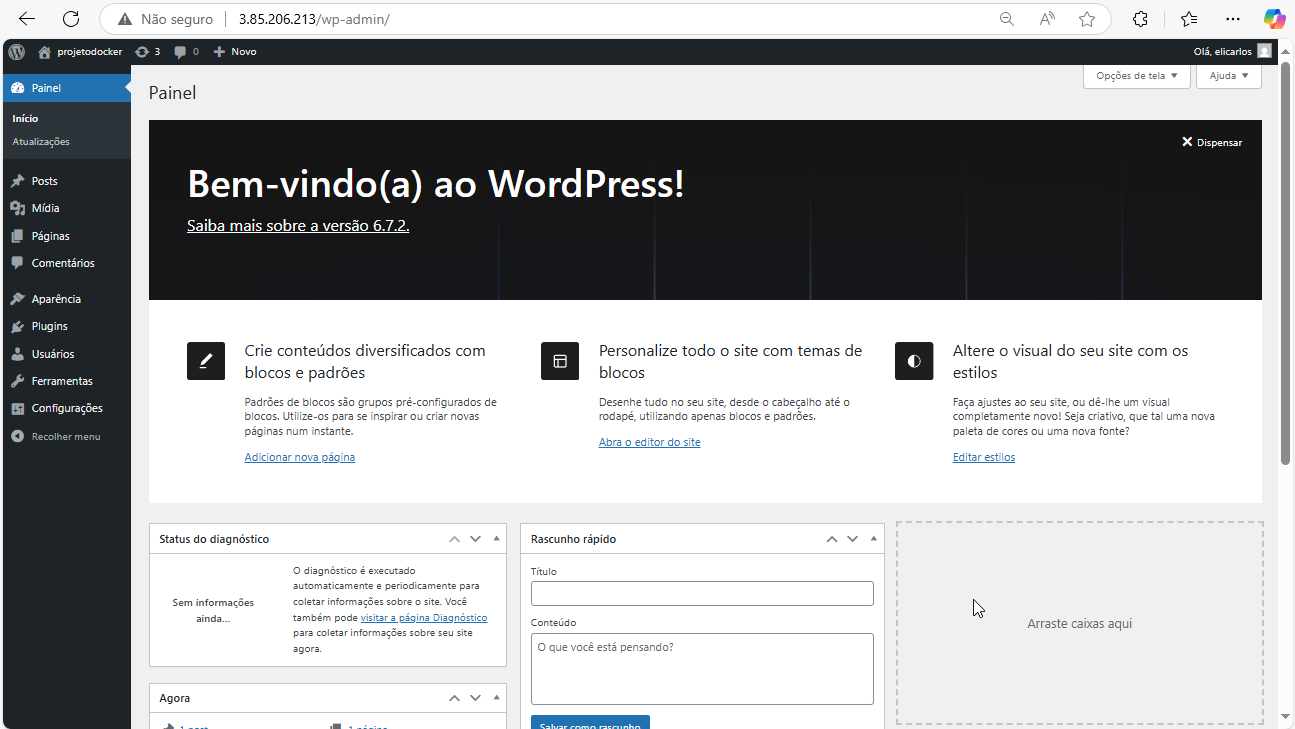
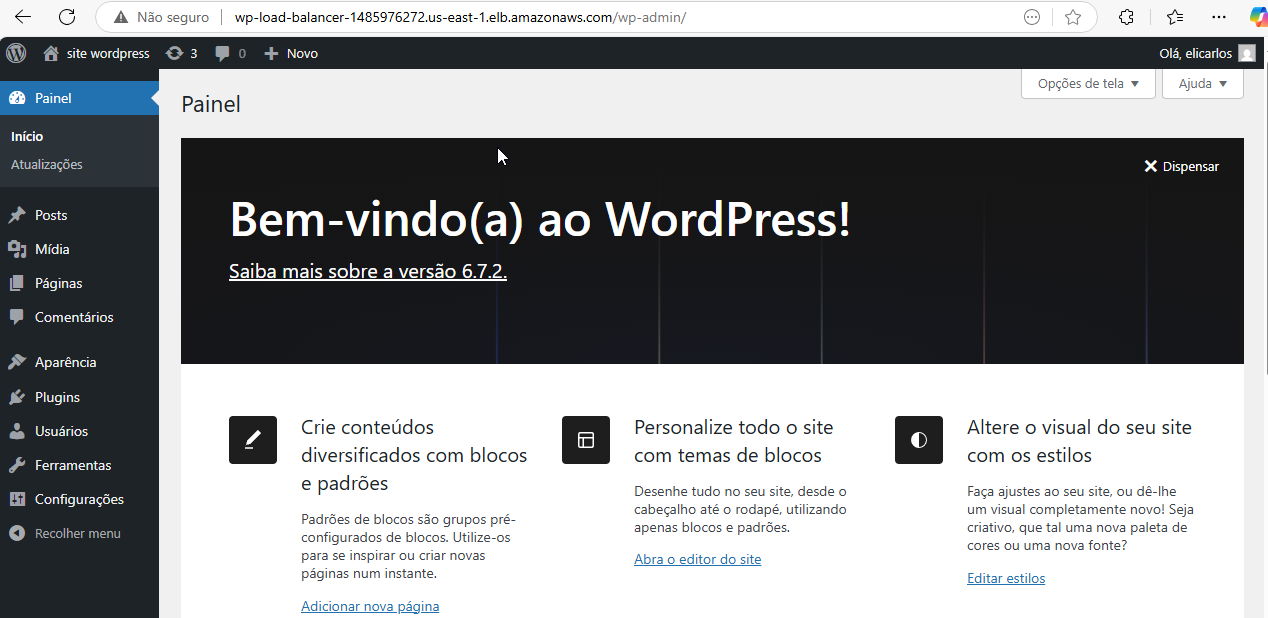
Subindo ultimo repositoio local 02-04-2025

diff --git a/README.md b/README.md
@@ -13,9 +13,11 @@ Sou estudante de Segurança da Informação, e atualmente estou desenvolvendo ha
 <hr>
 
 <div align="center">
- <img src="https://github.com/user-attachments/assets/eeb8aec4-21cc-454a-9c00-81d2b52d1ded" width="500px" hight="400">
+ <img src="https://github.com/user-attachments/assets/eeb8aec4-21cc-454a-9c00-81d2b52d1ded" width="300px" hight="400">
 
- <img src="https://github.com/user-attachments/assets/5f1ff0b7-4dce-4a0b-b0f9-11de88c85c44" width="500px" hight="400">
+ <img src="https://github.com/user-attachments/assets/5f1ff0b7-4dce-4a0b-b0f9-11de88c85c44" width="300px" hight="400">
+
+ <img src="https://github.com/user-attachments/assets/5f1ff0b7-4dce-4a0b-b0f9-11de88c85c44" width="300px" hight="400">
 </div>
 
 # <h1 align="center">Configuração de Servidor Web com Monitoramento</h1>
@@ -28,7 +30,7 @@ Sou estudante de Segurança da Informação, e atualmente estou desenvolvendo ha
 DevSecOps - Docker</div>
 
 ## :hammer: Ferramentas e Tecnologias Utilizadas:
-- **Linux (Debian12)**
+- **Linux (Server Ubuntu)**
 - **AWS Cloud**
 - **Vscode**
 - **Docker**
@@ -42,18 +44,21 @@ DevSecOps - Docker</div>
 4. [Automação e Testes](##etapa-4-automação-e-testes)
 
 
+> [!NOTE]
+> Os IPs nestas imagens podem sofre alteração porque foram feitos em momentos separados, caso tenho divergências siga o que voce criou alterando aonde forem solicitados.
+
 # Etapa 1: Configuração do Ambiente :hammer_and_wrench:
 Antes de criarmos a nossa Instância EC2 primeiramente vamos criar uma VPC na AWS com 2 subnets públicas e 2 subnets privadas. A VPC é um serviço da AWS que permite criar uma rede virtual isolada dentro da infraestrutura da AWS, para isto com o console aberto da Amazon AWS localize na barra de pesquisar por VPC para criar a VPC logo após criaremos as subnets, depois clique em create VPC ou selecione Your VPCs (suas VPCs) e criar VPC.
 
 
-<img src="img/img_vpc1.png" alt="Imagem inicial EC2" width="800px" hight="600px" />
+<img src="img/img_vpc1.png" alt="Imagem inicial EC2" width="600px" hight="400px" />
 
 
 Em VPC setting você pode escolher por criar através do VPC only ou VPC and more (Este modo permite criar a VPC junto com recursos adicionais necessários, como sub-redes, tabelas de rotas, gateways da Internet e gateways NAT). Neste exemplo escolheremos VPC only para criar de forma manual, após escolher informe um nome para vpc ex: "wp-docker-dev" e o bloco IPV4 CIDR para a VPC neste exemplo usei 172.18.0.0/20. as outras opções pode deixar como default e finalize clicando em criar VPC (Create VPC).
 
-<img src="img/img_vpc2.png" alt="" width="800px" 
+<img src="img/img_vpc2.png" alt="" width="600px" 
 hight="600px" />
-<img src="img/img_vpc3.png" alt="" width="800px" 
+<img src="img/img_vpc3.png" alt="" width="600px" 
 hight="600px" />
 
 
@@ -71,40 +76,40 @@ hight="600px" />
 > As tags são opcionais, mas recomenda-se atribuir nomes a elas, pois ajudam a categorizar e organizar seus recursos na AWS.
 
 <div>
-<img src="img/img_sub1.png" alt="" />
+<img src="img/img_sub1.png" width="600" alt="" />
 
-<img src="img/img_sub2.png" alt="" />
+<img src="img/img_sub2.png" width="600" alt="" />
 
-<img src="img/img_sub3.png" alt="" />
+<img src="img/img_sub3.png" width="600" alt="" />
 
 </div>
 
 Na imagem abaixo, você pode ver as subnets que foram criadas. Elas são duas subnets privadas e duas subnets públicas, nomeadas como "dev-web-public01", "dev-web-public02", "dev-web-private01" e "dev-web-private02", cada uma associada a uma zona de disponibilidade diferente.<br>
 
-<img src="img/img_sub4.png" alt="" />
+<img src="img/img_sub4.png" width="600" alt="" />
 
 Quando uma VPC é criada, uma tabela de roteamento já vem configurada por padrão. No entanto, para que nossas subnets funcionem como subnets públicas, criaremos uma nova tabela de roteamento específica para as subnets públicas.
 
 primeiramente criaremos um internet gateway. ir em internet gateway, informe um nome para seu internet gateway por exemplo "igw-wp-docker01" e clique em create internet gateway. apos a criação teremos que associar a uma vpc.
 
-<img src="img/igw-wp-docker01.png" alt="" />
+<img src="img/igw-wp-docker01.png" width="600" alt="" />
 
 para associar selecione o internet gateway criado -> actions -> attach to VPC -> selecione a VPC e assossiar.
 
-<img src="img/igw-wp-docker01-2.png" alt="" />
+<img src="img/igw-wp-docker01-2.png" width="600" alt="" />
 
 Agora, vamos criar a tabela de roteamento. Acesse a seção "Route Tables" na console da AWS e clique em "Create Route Table". Informe um nome, por exemplo, "rtb-docker-public", selecione a VPC "wp-docker-dev" e clique em "Create Route Table".
 
-<img src="img/rtb-docker-public.png" alt="" />
+<img src="img/rtb-docker-public.png" width="600" alt="" />
 
 Após a criação da tabela de roteamento, com a tabela de roteamento selecionada, vá para a aba "Subnet Associations". Clique em "Edit Subnet Associations", selecione as subnets públicas criadas e salve as alterações.
 
-<img src="img/associate-subnet.png" alt="" />
-<img src="img/associate-subnet1.png" alt="" />
+<img src="img/associate-subnet.png" width="600" alt="" />
+<img src="img/associate-subnet1.png" width="600" alt="" />
 
 Agora em Routes, vamos editar a tabela de roteamento (Edit Routes). Clique em Edit e adicione uma nova rota. Para isso, clique em Add Route, insira 0.0.0.0/0 no campo Destination e selecione o Internet Gateway criado anteriormente no campo Target. Salve as mudanças.
 
-<img src="img/edit-routes-public.png" alt="" />
+<img src="img/edit-routes-public.png" width="600" alt="" />
 
 
 
@@ -113,35 +118,34 @@ logo apos ir em Rote tables para criar a tabela de roteamento para o NET gateway
 
 De um nome para a route table privada exemplo: "rtb-private-wordpress" selecione a nossa vpc "wp-docker-dev"
 
-<img src="img/route-table-private.png" alt="" />
+<img src="img/route-table-private.png" width="600" alt="" />
 
 Agora assossiar a subnet privadas.
 
-<img src="img/route-table-private1.png" alt="" />
+<img src="img/route-table-private1.png" width="600" alt="" />
 
 Agora iremos editar em Routes para que elas tenham acesso a internet. ir em "edite routes" adicionar a rota para NAT gateway.
 
-<img src="img/route-table-private2.png" alt="" />
+<img src="img/route-table-private2.png" width="600" alt="" />
 
-<img src="img/route-table-private3.png" alt="" />
+<img src="img/route-table-private3.png" width="600" alt="" />
 
 
-
+## Security group das instâncias
 Vamos criar um grupo de segurança(Security group), nosso grupo de segurança irá atua como firewall virtual para as instâncias do EC2 para controlar o tráfego de entrada e de saída. 
 Para criar na console da AWS pesquise por EC2 ou digite na barra de pesquisa, procure por "Network & Security na lateral esquerda depois "criar security group" (Create security group), 
 Informe um nome, descrição é opcional e clique em criar.
-<br>
-<img src="img/securityGP.png" alt=""><br>
-<img src="img/securityGP1.png" alt=""><br>
-<img src="img/securityGP2.png" alt=""><br>
+
+<img src="img/securityGP.png" width="600" alt=""><br>
+<img src="img/securityGP1.png" width="600" alt=""><br>
+<img src="img/securityGP2.png" width="600" alt=""><br>
 
 
-
-# Criar um novo grupo de segurança para o RDS para uma organização da infraestrutura:
+## Criar um novo grupo de segurança para o RDS para uma organização da infraestrutura:
 Essa abordagem é útil para separar permissões e gerenciá-las de forma mais estruturada.
 siga os passos. acesse o console do AWS EC2. No menu lateral em "Network & Security" selecinar "Security groups".
 Crie um novo grupo de segurança, por exemplo crie com o nome: my-rds-connection.
-selecione a VPC em que nossa instancia se encontra com o nome "wp-docker-dev".
+selecione a VPC em que nossa instância se encontra com o nome "wp-docker-dev".
 
 Adicione as seguintes regras de entrada ao grupo de segurança em "Inbound" 
 Tipo: MySQL/Aurora (porta 3306). Em Origem: Selecione o grupo de segurança da sua instância EC2 para permitir que ela se conecte ao RDS. 
@@ -151,12 +155,20 @@ Importante lembre-se de:
 Garantir que tanto o RDS quanto a instância EC2 estejam na mesma VPC para que possam se comunicar.
 Se você estiver acessando o RDS de fora (como do seu computador local), será necessário adicionar o IP público ou 0.0.0.0/0 às regras de entrada temporariamente (não recomendado).
 
+<img src="img/securitygroupRDS.png" width="600" alt=""><br>
 
-# Criar grupo de segurança para o EFS 
+
+## Criar grupo de segurança para o EFS 
 Ir em Security groups, create security groups de um nome exemplo: sg_efs_wordpress, descrição caso queira como grupo de segurança efs do wordpress, selecione a mesma VPC das instâncias, em Inbound rules adicione o tipo NFS, porta range deve estar como 2049 para liberar acesso para as regras de entrada da nossa instancia, em source deixe como custom e selecione o security group das instâncias.
 Em outbound deixe regras para "All trafic"  e clique em criar.
-<img src="img/sg-efs.png" alt="" />
+<img src="img/sg-efs.png" width="600" alt="" />
 
+
+## security group do load balancing
+Ir em EC2, Network e Security, Security groups, clique em create security group de um nome ex: "sg_load_balancer" , descrição "Security group para load balancer", selecione a VPC onde estão nossas instâncias, defnir regras de entrada para tipo "http" porta 80 coloque uma descrição caso queira. regras de saida deixe para todos "all trafic" e clique em criar.
+
+<img src="img/sg_load_balance1.png" width="600" alt="" />
+<img src="img/sg_load_balance2.png" width="600" alt="" />
 
 
 # Criar o RDS 
@@ -166,49 +178,47 @@ em "Availability and durability" selecione "Single-AZ DB instance deployment" se
 em "Settings" nome da instancia do banco de dados de um nome exemplo: db-projeto-wordpress, em "Credential Settings" deixe como admin, "self managed" digite uma senha e confirme a senha no campo abaixo. em "Instance configuration" escolha "burstable classes" e selecione o tipo "db.t3.micro", deixe "Storage" como padrão,  em "Connectivity" selecione a vpc "wp-docker-dev",  em "Existing VPC security groups" selecione a vpc security group do RDS criada: "my-rds-connection".
 as outras configurações deixe padrão, em "Aditional configuration" database options coloque um nome para o banco de dados em "initial database name" exemplo: db_wordpress. logo após cheque as informações e clique em criar banco de dados.
 
-na janela a seguir aguarde a confirmação da criação do banco.
+Na janela a seguir aguarde a confirmação da criação do banco.
 
-<img src="img/rds.png" alt="" />
-<img src="img/rds2.png" alt="" />
-<img src="img/rds3.png" alt="" />
-<img src="img/rds4.png" alt="" />
-<img src="img/rds5.png" alt="" />
-<img src="img/rds6.png" alt="" />
-<img src="img/rds7.png" alt="" />
-<img src="img/rds9.png" alt="" />
-<img src="img/rds8.png" alt="" />
+<img src="img/rds.png" width="600" alt="" />
+<img src="img/rds2.png" width="600" alt="" />
+<img src="img/rds3.png" width="600" alt="" />
+<img src="img/rds4.png" width="600" alt="" />
+<img src="img/rds5.png" width="600" alt="" />
+<img src="img/rds6.png" width="600" alt="" />
+<img src="img/rds7.png" width="600" alt="" />
+<img src="img/rds9.png" width="600" alt="" />
+<img src="img/rds8.png" width="600" alt="" />
 
 Enquanto o banco é criado podemos ir criando o nosso EFS.
 
 # Criar o EFS
-para criar o EFS clique em create file system, proxima tela coloque um nome exemplo: "Template-Server-Wordpress" selecione a VPC onde estão as instancias, depois clique em "customize", proxima tela verifique os dados, deixe como Regional, Lifecycle management deixe tudo como nenhum (none), em "performance settings" deixe como "Bursting", adicione uma tag para facilitar a identificação. exemplo: tag key como "Name" e tag value "Efs - conecta ec2". Na proxima tela em Network verifique se a VPC da instância está selecionada. Em Mount targets deixe apenas selecionado o grupo de segurança(Security groups) que criamos para o EFS chamado "sg_efs_wordpress".
+para criar o EFS clique em create file system, proxima tela coloque um nome exemplo: "Template-Server-Wordpress" selecione a VPC onde estão as instancias, depois clique em personalizar(customize), proxima tela verifique os dados, deixe como Regional, Lifecycle management deixe tudo como nenhum (none), em "performance settings" deixe como Intermitente(Bursting), adicione uma tag para facilitar a identificação. exemplo: tag key como "Name" e tag value "Efs - conecta ec2". Na proxima tela em Network verifique se a VPC da instância está selecionada. Em Mount targets deixe apenas selecionado o grupo de segurança(Security groups) que criamos para o EFS chamado "sg_efs_wordpress".
 
-<img src="img/efs1.png" alt="" />
-<img src="img/efs2.png" alt="" />
-<img src="img/efs3.png" alt="" />
-<img src="img/efs4.png" alt="" />
+<img src="img/efs1.png" width="600" alt="" />
+<img src="img/efs2.png" width="600" alt="" />
+<img src="img/efs3.png" width="600" alt="" />
+<img src="img/efs4.png" width="600" alt="" />
 
- siga nas proximas telas Next e depois criar(Create).
-
------
+ Siga nas proximas telas Next e depois criar(Create).
 
 ## :heavy_check_mark: Criar uma instancia EC2 :computer:
 
 Para criar uma instância EC2 na AWS, acesse a console da AWS e pesquise por EC2 ou vá até "Instances". Em seguida, procure por "Launch instance".
 
-<img src="img/img_ec2.png" alt="" />
-<img src="img/ec2_instance1.png" alt="" />
+<img src="img/img_ec2.png" width="600" alt="" />
+<img src="img/ec2_instance1.png" width="600" alt="" />
 
 Nesta etapa, adicione as Tags, caso necessário. Escolha a imagem AMI; neste projeto, usaremos o Ubuntu Server 24.04. No tipo da instância, deixe como t2.micro.Crie uma key pair para acesso remoto via SSH. Selecione a VPC "wp-docker-dev" criada anteriormente e a subnet pública. Em Security Group, crie um caso não tenha. Para criar, vá em EC2 Security Group, clique em Create Security Group, informe um nome; por exemplo, "my-wp-dev". A descrição pode ser adicionada para facilitar a identificação, se necessário. Selecione a VPC "wp-docker-dev" e clique em Create Security Group. Deixe as outras opções como padrão por enquanto e clique em "Create Instance" (Launch Instance).
 
-<img src="img/ec2_instance2.png" alt="" />
+<img src="img/ec2_instance2.png" width="600" alt="" />
 
 Em "Key pair" caso nao tenha criado uma chave clique para criar, usaremos esta chave para conectarmos a instancia via SSH. Escolha um nome para achave deixe o tipo criptografia como padrão (RSA) e formato do arquivo como <b>.pem</b> conforme a imagem abaixo e clique em criar chave (create key pair).
-<img src="img/chave.png" alt="" />
+<img src="img/chave.png" width="600" alt="" />
 
 Verifique se as informações estão corretas e clique em criar instância (Launch instance). 
 
-<img src="img/ec2_instance3.png" alt="" />
+<img src="img/ec2_instance3.png" width="600" alt="" />
 
 <div>Agora para associar um Security Group que permita tráfego HTTP (porta 80) e SSH na (porta 22) 
 edite o security group permitindo regras de entrada de SSH e HTTP. 
@@ -222,16 +232,16 @@ adicione novamente para type SSH source MyIP e Salve(save rules).</div>
 
 <br>
 
-<img src="img/securitygroupsh.png" alt="" />
+<img src="img/securitygroupsh.png" width="600" alt="" />
 
 Apos isto realize o teste acessando o servidor via SSH. Abra um cliente SSH como o PUTTY ou o VSCODE utilizando o terminal bash instalado. neste exemplo usei o Vscode. Localize a pasta com seu arquivo de chave privada **.pem**. A chave é usada para iniciar esta instância. Execute este comando, se necessário, para garantir que sua chave não seja visível publicamente.
 ```chmod 400 "chave01.pem"``` Na console da AWS selecione sua instância criada e com botão direito va em conect para conectar-se a instância. 
 
-<img src="img/selecioneInstance.png" alt="">
+<img src="img/selecioneInstance.png" width="600" alt="">
 
 Agora selecione a aba SSH e copie ou digite o comando para conetar a instancia via SSH no terminal. Conecte-se à sua instância usando seu IP público (Public IPv4 address).
 
-<img src="img/acessossh2.png" alt="" />
+<img src="img/acessossh2.png" width="600" alt="" />
 
 Exemplo:
 
@@ -240,13 +250,13 @@ ssh -i "chave.pem" admin@"IP_Public_IPv4_da_instância"
 ```
 na tela do terminal confirme com "yes" e acesse a maquina.
 
-<img src="img/conectInstance.png" alt="">
+<img src="img/conectInstance.png" width="600" alt="">
 
-<img src="img/acessossh.png" alt="">
+<img src="img/acessossh.png" width="600" alt="">
 
 <hr>
 
-Atualize o sistema:
+Passo a passo das configurações, instalação de pacotes e atualizações do sistema:
 
 ```
 sudo apt update && sudo apt upgrade -y 
@@ -273,6 +283,7 @@ sudo mkdir -p /mnt/efs
 ```
 
 montar um sistema de arquivos NFS:
+os numeros IPs podem sofrer alterações. coloque o que corresponda ao seu EFS criado. caminho, vá em EFS na console da AWS selecione sistema de arquivos, selecione o EFS criado e clique nele, na proxima tela clique Anexar(attach) escolhar montar via DNS ou IP. neste projeto foi montado via IP.
 ```
 sudo mount -t nfs4 -o nfsvers=4.1,rsize=1048576,wsize=1048576,hard,timeo=600,retrans=2,noresvport 172.18.0.188:/ /mnt/efs
 ```
@@ -282,6 +293,7 @@ Recaregue os arquivos de configuração:
 sudo systemctl daemon-reload
 ```
 Comando para adicionar ntrada ao arquivo pra serem montados automaticamente:
+os numeros IPs podem sofrer alterações.
 ```
 echo "172.18.0.188:/ /mnt/efs nfs4 defaults,nfsvers=4.1,rsize=1048576,wsize=1048576,hard,timeo=600,retrans=2,noresvport,_netdev 0 0" | sudo tee -a /etc/fstab
 ```
@@ -347,8 +359,9 @@ docker ps
 docker ps -a
 ```
 
-# testando o banco de dados
-mysql -h db-wordpress.ck1uq420e02n.us-east-1.rds.amazonaws.com -u admin -p -e "SHOW DATABASES;"
+# Testando o banco de dados
+codigo de exemplo:
+mysql -h db-wordpress.ck1yq449e02b.us-east-2.rds.amazonaws.com" -u admin -p -e "SHOW DATABASES;"
 
 
 # acessesando o wordpress no navegador
@@ -358,8 +371,6 @@ Abra o navegador e digite o ip publico da instancia + porta de acesso exemplo
 # Usando User-Data e criando uma launch template
 
 No console da AWS selecione "Launch template" e "create launch template" coloque um nome exemplo: ServerUbuntu, coloque uma descrição para sua launch template ex: meu projeto wordpress, deixe selecionado Auto scalling guidance para EC2 Auto Scaling. Em aplication e OS image selecione a imagem do Ubuntu Server, tipo t2.micro, selcione um par de chaves criado, se não tiver crie aqui memso uma para acessar via ssh nossa instância. Em Networking settings deixe sem para podermos selecionar mais tarde. Em "Advanced network configuration" ative o auto assing ip publiq. caso tenha Tags adicione, Em advanced details no final da pagina acrescente o User-data criado abaixo. cheque as informações e clique em criar.
-
-
 
 
 ```
@@ -412,6 +423,28 @@ sleep 15
 
 sudo docker-compose up -d
 ```
+
+## Criando Load Balancer
+Na AWS ir em EC2 depois Load Balancers, para este projeto utilizaremos Classic Load Balancer(não recomendado), para isto mude para Criar Classic Load Balancer, nome ex: "wp-load-balancer", em esquema deixe como publico depois iremos mudar para privado, em mpeamento de rede escolha (02) zonas de disponibilidade e a VPC e subnet onde estão nossas instâncias publicas, em grupos de segurança devemos selecionar o Security group que criamos para o load balancer com o nome de "sg_load_balancer", em "Health chech" deixe selecionado target HTTP:80/index.php parao wordpress, deixe o restante padrão e caso tenha instancia criada adicione senão deixe em branco, revise o Load Balance e clique em criar.
+
+<img src="img/wp-load-balance1.png" width="600" alt="">
+
+
+## Criando Auto Scaling Group 
+
+Na AWS ir em EC2 depois Auto Scaling Groups, clique em "create Auto Scaling Group" de um nome ex: "wordpress-auto-scaling", escolha nossa launch template que criamos chamada "ServerUbuntu" clique em proximo, selecione a VPC em que estão nossas instâncias, adicione as 2 subnetes publicas criadas. em distribuição da zona de disponibilidade escolha Somente equilibrado e proximo.  Balanceamento de carga selecione Anexar um Balanceamento de carga existente, escolha entre Classic Load Balancers e selecione o nosso load balancer Criado com o nome de "wp-load-balancer" e proximo, configurando o tamanho do grupo escolha a capacidade desejada, no nosso exemplo capacidade desejada será 3, minimo 2 e max 5. em ajuste de escala automatica escolha politica de dimensionamente com monitoramento que é uma metrica para destino no Cloudwatch. neste exemplo escolhemos a Média de utilização da CPU. politica de manutenção de instãncia deixe como Nenhuma politica e em configurações adicionais como Padrão. Clique em proximo 2x, revise e depois clique em criar grupo de Auto Scaling.
+
+<img src="img/wordpress-auto-scaling1.png" width="600" alt="">
+
+
+# Acesse a pagina no Navegar 
+Abra um navegador de preferencia e digite o dns do load balancer exemplo:
+
+http://http://wp-load-balancer-1281376271.us-east-1.elb.amazonaws.com/
+
+<img src="img/web-wordpress.png" width="600" alt="">
+
+<img src="img/web-wordpress1.png" width="600" alt="">
 
 O projeto pode sofrer altereações futuras.
 
